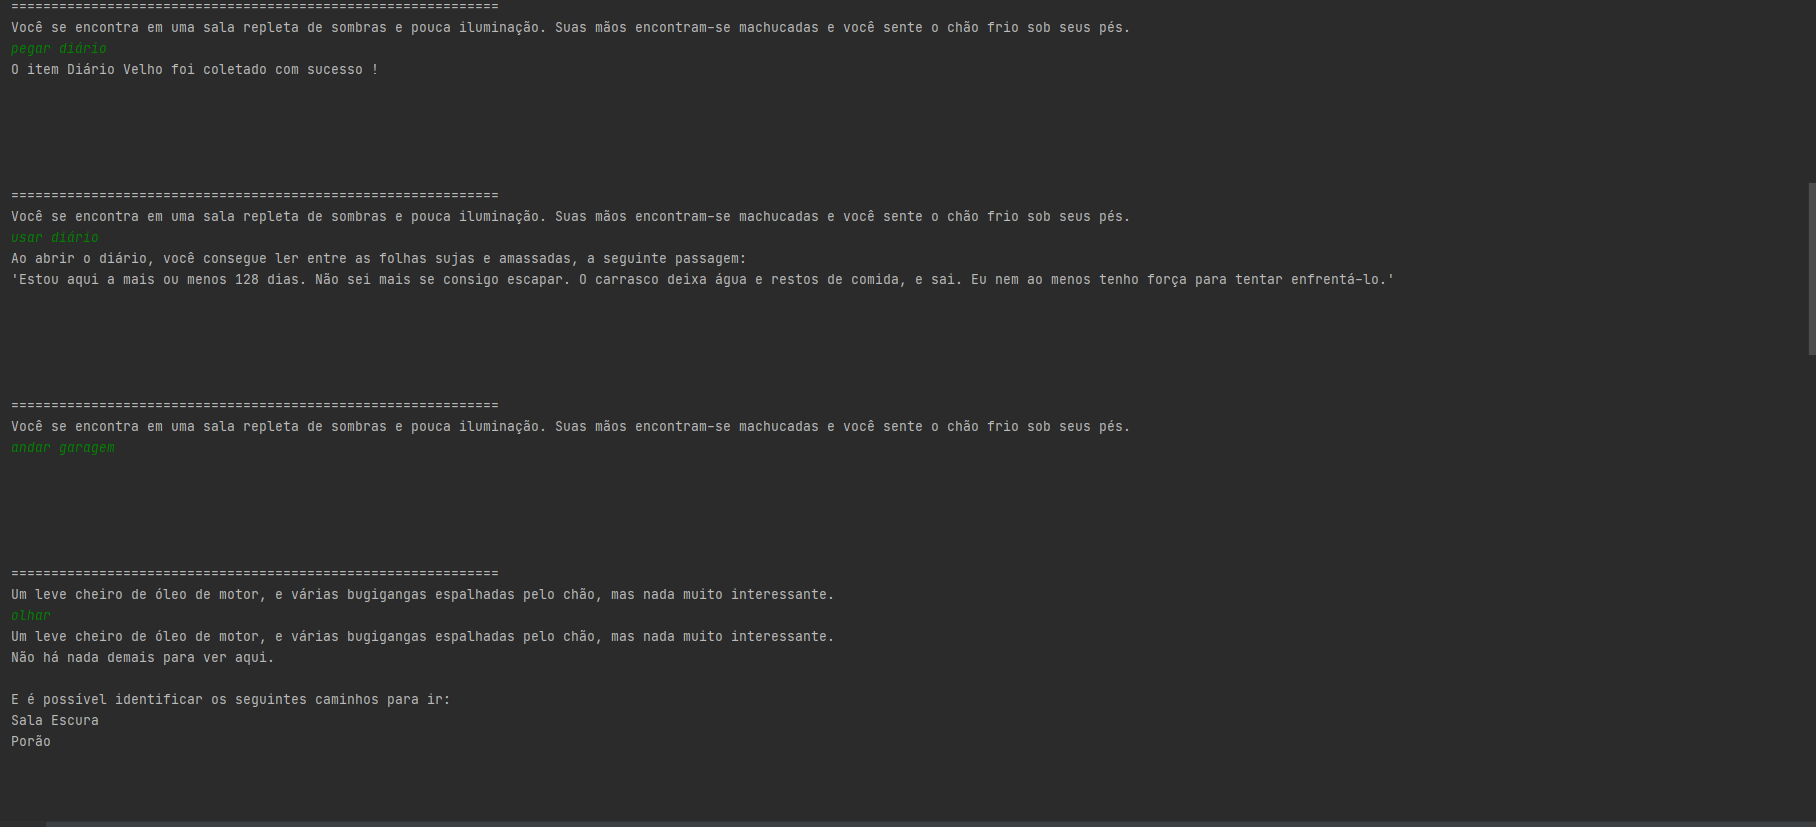
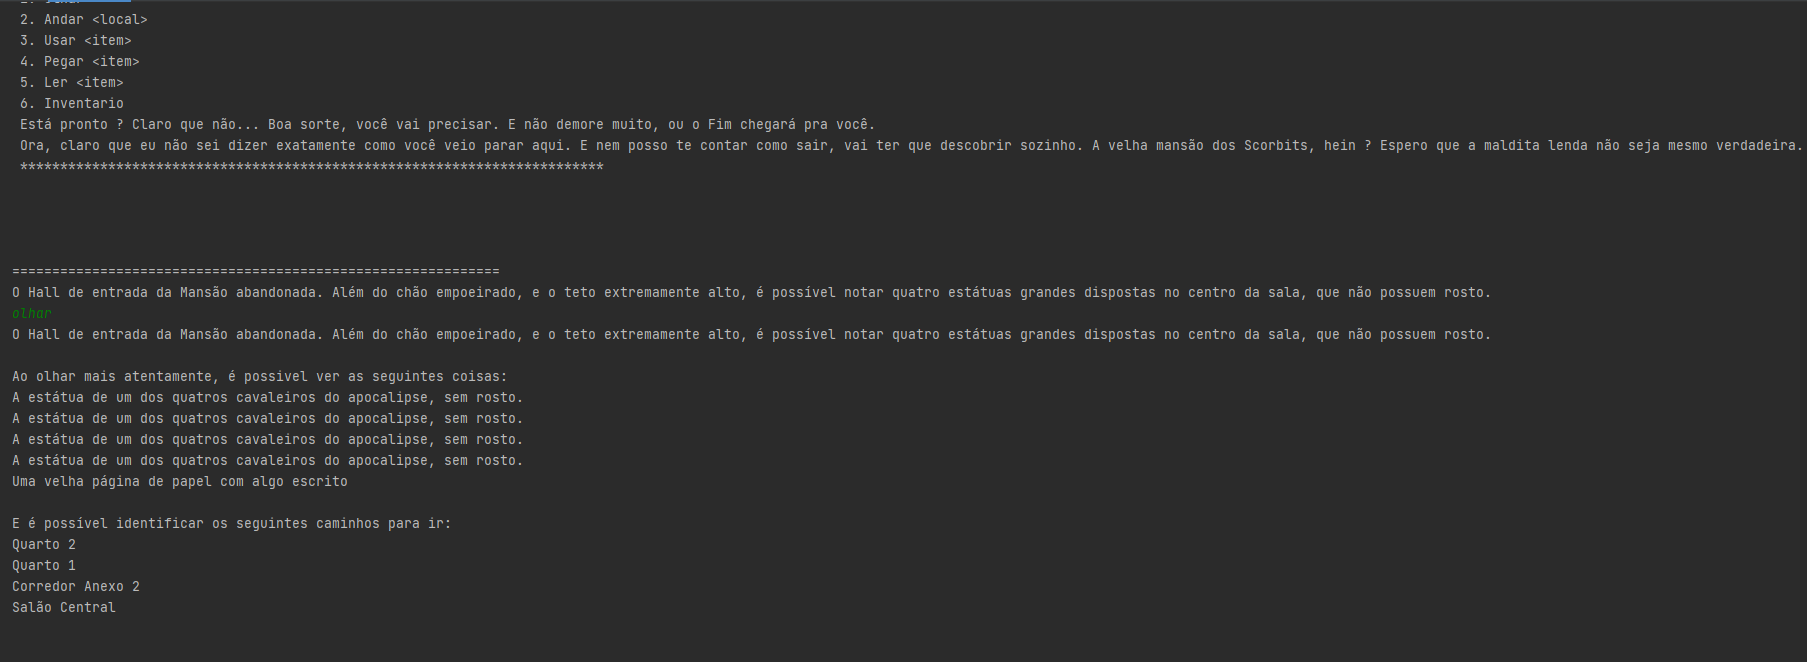
1 - Finalizando jogo.

Changed region(s): [[0.0, 0.423, 0.8367, 0.9366], [0.0, 0.0, 1.0, 0.423]]

diff --git a/TextRPGAdventure/src/game/Principal.java b/TextRPGAdventure/src/game/Principal.java
@@ -3,12 +3,14 @@ package game;
 import engine.*;
 import engine.area.Area;
 import engine.area.AreaIluminada;
-import engine.item.ItemChave;
-import engine.item.ItemChavePorta;
+import engine.item.*;
 import game.models.EstatuaControlador;
 import game.models.item.*;
+import game.servicos.Arquivo;
 
+import java.io.FileNotFoundException;
 import java.util.ArrayList;
+import java.util.Arrays;
 import java.util.List;
 
 public class Principal {
@@ -19,11 +21,13 @@ public class Principal {
         System.out.println(" Escapar de um lugar sombrio enquanto um inimigo terrível te persegue.\n Essa é sua tarefa. \n Algumas instruções antes de começar.");
         System.out.println(" Os seguintes comandos estão disponíveis pra você: ");
         System.out.println(" 1. Olhar ");
-        System.out.println(" 2. Andar ");
-        System.out.println(" 3. Usar ");
-        System.out.println(" 4. Pegar ");
-        System.out.println(" 5. Ler ");
+        System.out.println(" 2. Andar <local>");
+        System.out.println(" 3. Usar <item>");
+        System.out.println(" 4. Pegar <item>");
+        System.out.println(" 5. Ler <item>");
         System.out.println(" 6. Inventario ");
+        System.out.println(" Está pronto ? Claro que não... Boa sorte, você vai precisar. E não demore muito, ou o Fim chegará pra você. ");
+        System.out.println(" Ora, claro que eu não sei dizer exatamente como você veio parar aqui. E nem posso te contar como sair, vai ter que descobrir sozinho. A velha mansão dos Scorbits, hein ? Espero que a maldita lenda não seja mesmo verdadeira.");
         System.out.println(" ************************************************************************* ");
 
         JogoController jogo = JogoController.getJogo();
@@ -55,37 +59,52 @@ public class Principal {
 
         Lanterna lanterna = new Lanterna("Lanterna", "Uma lanterna velha. Parece que ainda funciona.", false, true, false, 10);
 
+        ItemDecorativo cadaverSala4 = new ItemDecorativo("Cadáver Homem", "Um cadáver completamente estraçalhado. Há marcas de garras por todo o corpo, e o rosto está completamente desfigurado.", false, false);
+        ItemDecorativo cadaver2Sala4 = new ItemDecorativo("Cadáver Feminino", "Um cadáver completamente estraçalhado. Há marcas de garras por todo o corpo, e o está completamente rosto desfigurado. Um dos braços foi arrancado.", false, false);
+        ItemDecorativo cadaverSala8 = new ItemDecorativo("Cadáver", "Um cadáver completamente submerso no sangue, com excessão de sua mão pendendo na parede lateral da banheira. Pobre coitado...", false, false);
+        ItemDecorativo cadaverSala9 = new ItemDecorativo("Cadáver Cachorro", "Os restos do cachorro da família podem ser encontrados em cima do sofá.", false, false);
+        ItemDecorativo cadaverSala16 = new ItemDecorativo("Cadáver Criança", "Um cadáver infantil repousa sobre o berço. Se você não visse o sangue, daria pra achar que está dormindo...", false, false);
+        ItemDecorativo cadaverSala23 = new ItemDecorativo("Cadáver", "Um cadáver desmembrado espatifado no chão. Quem sabe onde estão os outros membros...", false, false);
+        ItemDecorativo cadaverSala27 = new ItemDecorativo("Cadáver Homem", "Um cadáver esfaqueado até a morte. Foi tão picotado que Jack, o Estripador, estaria orgulhoso...", false, false);
+
+        ItemLegivel diarioSala1 = new ItemLegivel("Página diário 0", "Uma velha página de papel com algo escrito", false, true, Arrays.asList("'As estátuas divinas... A única forma de escaparmos agora. Não sei se terei tempo, mas se encontrar esse bilhete, ache os quatro rostos, e estará livre.'"));
+        ItemLegivel diarioSala2 = new ItemLegivel("Página diário 1", "Uma velha página de papel com algo escrito",false, true, Arrays.asList("'Ah, quem dera Lincoln me desse bola... Já fiz de tudo, mas o maldito não me nota. Terei que apelar para meus dotes sedutores mais poderosos.'"));
+        ItemLegivel diarioSala13 = new ItemLegivel("Página diário 2", "Uma velha página de papel com algo escrito",false, true, Arrays.asList("'Morfeu, onde diabos está minha chave ?? Sabe que é importante para momentos de crise. Espero que não tenha levado pra sessão reservada...'"));
+        ItemLegivel diarioSala15 = new ItemLegivel("Página diário 3", "Uma velha página de papel com algo escrito",false, true, Arrays.asList("'Rose, minha cara... Parece que a maldição da família voltou para nos assombrar. Se achar isso em algum momento, fuja o mais rápido que puder e queime a casa.'"));
+        ItemLegivel diarioSala18 = new ItemLegivel("Página diário 4", "Uma velha página de papel com algo escrito",false, true, Arrays.asList("'A alguns dias esse cheiro horrendo vem saindo do banheiro e eu tenho certeza de ter visto algo no armário... Vamos isolar esse quarto imediatamente, papai está preocupado.'"));
+        ItemLegivel diarioSala29 = new ItemLegivel("Página diário 5", "Uma velha página de papel com algo escrito",false, true, Arrays.asList("'Ele está a solta, eu não acreditei de forma alguma .... Como é possivel ?! Era só uma maldita lenda dessa família !!'"));
+
         Area sala1 = new Area ("Hall de Entrada da Mansão", "O Hall de entrada da Mansão abandonada. Além do chão empoeirado, e o teto extremamente alto, é possível notar quatro estátuas grandes dispostas no centro da sala, que não possuem rosto.");
-        Area sala2 = new Area ("Quarto 2", "Descrição Sala 2");
-        Area sala3 = new Area ("Quarto 1", "Descrição Sala 3");
-        AreaIluminada sala4 = new AreaIluminada ("Sala Visita", "Descrição Sala 4", false, "A sala está muita escura para enxergar alguma coisa. Alguma fonte de luz poderia ajudar...");
-        Area sala5 = new Area ("Close 1", "Descrição Sala 5");
-        Area sala6 = new Area ("Banheiro 1", "Descrição Sala 6");
-        Area sala7 = new Area ("Fundos da Biblioteca", "Descrição Sala 7");
-        AreaIluminada sala8 = new AreaIluminada ("Banheiro 2", "Descrição Sala 8", false, "A sala está muita escura para enxergar alguma coisa. Alguma fonte de luz poderia ajudar...");
-        Area sala9 = new Area ("Salão Central", "Descrição Sala 9");
-        Area sala10 = new Area ("Banheiro 7", "Descrição Sala 10");
-        Area sala11 = new Area ("Corredor 1", "Descrição Sala 11");
-        AreaIluminada sala12 = new AreaIluminada ("Biblioteca - Área Principal", "Descrição Sala 12", false, "A sala está muita escura para enxergar alguma coisa. Alguma fonte de luz poderia ajudar...");
-        Area sala13 = new Area ("Biblioteca - Área de Leitura", "Descrição Sala 13");
-        Area sala14 = new Area ("Banheiro 5", "Descrição Sala 14");
-        Area sala15 = new Area ("Biblioteca - Sessão Reservada", "Descrição Sala 15");
-        Area sala16 = new Area ("Quarto 4", "Descrição Sala 16");
-        AreaIluminada sala17 = new AreaIluminada ("Banheiro 4", "Descrição Sala 17", false, "A sala está muita escura para enxergar alguma coisa. Alguma fonte de luz poderia ajudar...");
-        Area sala18 = new Area ("Quarto 5", "Descrição Sala 18");
-        Area sala19 = new Area ("Quarto 3", "Descrição Sala 19");
-        Area sala20 = new Area ("Banheiro 3", "Descrição Sala 20");
-        Area sala21 = new Area ("Corredor Anexo 2", "Descrição Sala 21");
-        Area sala22 = new Area ("Sala de Jantar", "Descrição Sala 22");
-        Area sala23 = new Area ("Área de Serviço", "Descrição Sala 23");
-        Area sala24 = new Area ("Cozinha", "Descrição Sala 24");
-        Area sala25 = new Area ("Banheiro 6", "Descrição Sala 25");
-        Area sala26 = new Area ("Despensa 2", "Descrição Sala 26");
-        AreaIluminada sala27 = new AreaIluminada ("Dispensa 1", "Descrição Sala 27", false, "A sala está muita escura para identificar qualquer coisa aqui.");
-        Area sala28 = new Area ("Corredor 3", "Descrição Sala 28");
-        AreaIluminada sala29 = new AreaIluminada ("Sótão", "Descrição Sala 29", false, "A sala está muita escura para enxergar alguma coisa. Alguma fonte de luz poderia ajudar...");
-        AreaIluminada sala30 = new AreaIluminada ("Bunker", "Descrição Sala 30", false, "A sala está muita escura para enxergar alguma coisa. Alguma fonte de luz poderia ajudar...");
-        AreaIluminada sala31 = new AreaIluminada ("Jardim dos Fundos", "Descrição Sala 31", false, "A sala está muita escura para enxergar alguma coisa. Alguma fonte de luz poderia ajudar...");
+        Area sala2 = new Area ("Quarto 2", "Um quarto abandonado, com roupas de camas poíadas e cheias de poeira. Há pedaços de vidro quebrado próximas ao criado-mudo, e bastante roupas espalhadas pelo chão. Alguém saiu daqui com bastante pressa.");
+        Area sala3 = new Area ("Quarto 1", "Um quarto extremamente arrumado, com roupas de camas de cor rosa bem limpas e conservadas. Aparentemente, alguém esteve arrumando esse quarto recentemente. Entretanto, há pegadas de lama no chão em direção a porta de onde você veio.");
+        AreaIluminada sala4 = new AreaIluminada ("Sala Visita", "A Sala de Visitas, um local de comunhão e amizades. Entretanto, esse lugar está bastante decrépito. Há sangue espalhados nas paredes e no chão.", false, "A sala está muita escura para enxergar alguma coisa. Alguma fonte de luz poderia ajudar...");
+        Area sala5 = new Area ("Closet 1", "Um closet cheio de roupas em bom estado. Não parece ter sujeira por aqui.");
+        Area sala6 = new Area ("Banheiro 1", "Um banheiro impecável de limpo, e com cheiro de desinfetante no ar.");
+        Area sala7 = new Area ("Fundos da Biblioteca", "Parte dos fundos da biblioteca, abarrotada de livros empilhados e estantes mal organizadas.");
+        AreaIluminada sala8 = new AreaIluminada ("Banheiro 2", "Um banheiro completamente imundo, com uma banheira inundada de sangue.", false, "A sala está muita escura para enxergar alguma coisa. Alguma fonte de luz poderia ajudar...");
+        Area sala9 = new Area ("Salão Central", "O imenso salão central, símbolo da mansão nas diversas fotos da família. No momento, os móveis estão completamente destruídos e há lama e sangue espalhados por toda parte.");
+        Area sala10 = new Area ("Banheiro 7", "O grande banheiro do centro da casa. Não há nada demais aqui, além de um pouco de lama.");
+        Area sala11 = new Area ("Corredor 1", "Um longo corredor com portas para vários lados. Pegadas de lama e sangue entram e saem de vários desses lugares.");
+        AreaIluminada sala12 = new AreaIluminada ("Biblioteca - Área Principal", "A grande biblioteca, onde estão estantes e mais estantes com livros, a perder de vista. Que lugar extraordinário. E surpreendentemente arrumado.", false, "A sala está muita escura para enxergar alguma coisa. Alguma fonte de luz poderia ajudar...");
+        Area sala13 = new Area ("Biblioteca - Área de Leitura", "Mesas longas de madeira e diversas cadeiras, a área de concentração máxima. Há alguns óculos e relógios velhos repousando sobre as mesas, e bastante poeira. Ainda assim, está bem melhor que o resto da casa.");
+        Area sala14 = new Area ("Banheiro 5", "Um banheiro limpo e conservado.");
+        Area sala15 = new Area ("Biblioteca - Sessão Reservada", "Uma sessão secreta, trancada e protegida ? Que discreto. Nem devem existir segredos guardados aqui, não é mesmo ? ");
+        Area sala16 = new Area ("Quarto 4", "Um quarto com decoração bastante infantil. Um berço quebrado, brinquedos esmagados e sangue. Que crueldade...");
+        AreaIluminada sala17 = new AreaIluminada ("Banheiro 4", "Um banheiro cheio de lama, até as paredes, e pedaços de porcelana quebrada no chão. Alguém comeu algo que não fez bem...", false, "A sala está muita escura para enxergar alguma coisa. Alguma fonte de luz poderia ajudar...");
+        Area sala18 = new Area ("Quarto 5", "Um quarto cheio de lama, e com um cheiro horroroso. Os lençóis estão completamente sujos.");
+        Area sala19 = new Area ("Quarto 3", "Um quarto infantil, sem manchas de sangue ou lama. Até o corredor para ele parecia limpo... Talvez esteja vazio a algum tempo.");
+        Area sala20 = new Area ("Banheiro 3", "Um banheiro bem infatil e colorido, bastante limpo e cheiroso.");
+        Area sala21 = new Area ("Corredor Anexo 2", "Este corredor trancado está cheio de fumaça.. É díficil até de enxergar o que tem do outro lado. E parece estar tão quente...");
+        Area sala22 = new Area ("Sala de Jantar", "A imensa sala de jantar da família, agora transformada em um lugar completamente carbonizado. As paredes estão pretas, e há corpos queimados sobre a mesa e sobre as cadeiras. Um churrasco da maldade...");
+        Area sala23 = new Area ("Área de Serviço", "A área de serviço, completamente suja de sangue e lama.");
+        Area sala24 = new Area ("Cozinha", "A grande cozinha da mansão, também carbonizada. Há até resquícios de fogo entre os armários de madeira. Este lugar não vai aguentar muito tempo.");
+        Area sala25 = new Area ("Banheiro 6", "Um banheiro cheio de fumaça e lama.");
+        Area sala26 = new Area ("Despensa 2", "Uma despensa completamente revirada, com comida derramada sobre o chão, restos pisoteados e sangue. Muito sangue.");
+        AreaIluminada sala27 = new AreaIluminada ("Dispensa 1", "Uma despensa completamente revirada, com comida derramada sobre o chão, restos pisoteados e sangue.", false, "A sala está muita escura para identificar qualquer coisa aqui.");
+        Area sala28 = new Area ("Corredor 3", "Um longo corredor com portas para vários lados. Pegadas de lama e sangue entram e saem de vários desses lugares.");
+        AreaIluminada sala29 = new AreaIluminada ("Sótão", "O Sótão, depósito superior. É difícil andar aqui com tanto sangue nos pés.", false, "A sala está muita escura para enxergar alguma coisa. Alguma fonte de luz poderia ajudar...");
+        AreaIluminada sala30 = new AreaIluminada ("Bunker", "O Bunker secreto, para proteger a família dos desastres. Talvez não tenha adiantado.", false, "A sala está muita escura para enxergar alguma coisa. Alguma fonte de luz poderia ajudar...");
+        AreaIluminada sala31 = new AreaIluminada ("Jardim dos Fundos", "Um belo jardim intocado. Mesmo na noite fria, é o lugar mais bonito que alguém poderia vislumbrar. Quem profanaria tamanha beleza ?", false, "A sala está muita escura para enxergar alguma coisa. Alguma fonte de luz poderia ajudar...");
 
         jogo.addArea(sala1);
         jogo.addArea(sala2);
@@ -130,15 +149,13 @@ public class Principal {
         sala1.addItem(estatuaMorte);
         sala1.addItem(estatuaPeste);
 
-        sala1.addItem(mascaraFome);
-        sala1.addItem(mascaraMorte);
-        sala1.addItem(mascaraGuerra);
-        sala1.addItem(mascaraPeste);
+        sala1.addItem(diarioSala1);
 
         /* SALA 2*/
         jogo.conectarArea(sala2, sala1, false);
         jogo.conectarArea(sala2, sala5, false);
         jogo.conectarArea(sala2, sala8, false);
+        sala2.addItem(diarioSala2);
 
         /* SALA 3*/
         jogo.conectarArea(sala3, sala1, false);
@@ -149,6 +166,8 @@ public class Principal {
         jogo.conectarArea(sala4, sala9, false);
         jogo.conectarArea(sala4, sala11, false);
         sala4.addItem(mascaraPeste);
+        sala4.addItem(cadaverSala4);
+        sala4.addItem(cadaver2Sala4);
 
         /* SALA 5*/
         jogo.conectarArea(sala5, sala2, false);
@@ -157,17 +176,18 @@ public class Principal {
         jogo.conectarArea(sala6, sala3, false);
         sala6.addItem(chaveCaixaMascaraMorte);
 
-
         /* SALA 7*/
         jogo.conectarArea(sala7, sala13, false);
 
         /* SALA 8*/
         jogo.conectarArea(sala8, sala2, false);
+        sala8.addItem(cadaverSala8);
 
         /* SALA 9*/
         jogo.conectarArea(sala9, sala1, false);
         jogo.conectarArea(sala9, sala10, false);
         jogo.conectarArea(sala9, sala4, false);
+        sala9.addItem(cadaverSala9);
 
         /* SALA 10*/
         jogo.conectarArea(sala10, sala9, false);
@@ -191,6 +211,7 @@ public class Principal {
         /* SALA 13*/
         jogo.conectarArea(sala13, sala12, false);
         jogo.conectarArea(sala13, sala7, false);
+        sala13.addItem(diarioSala13);
 
         /* SALA 14*/
         jogo.conectarArea(sala14, sala12, false);
@@ -198,15 +219,18 @@ public class Principal {
         /* SALA 15*/
         jogo.conectarArea(sala15, sala12, false);
         sala15.addItem(mascaraPeste);
+        sala15.addItem(diarioSala15);
 
         /* SALA 16*/
         jogo.conectarArea(sala16, sala11, false);
+        sala16.addItem(cadaverSala16);
 
         /* SALA 17*/
         jogo.conectarArea(sala17, sala18, false);
 
         /* SALA 18*/
         jogo.conectarArea(sala18, sala17, false);
+        sala18.addItem(diarioSala18);
 
         /* SALA 19*/
         jogo.conectarArea(sala19, sala11, false);
@@ -228,6 +252,7 @@ public class Principal {
 
         /* SALA 23*/
         jogo.conectarArea(sala23, sala24, false);
+        sala23.addItem(cadaverSala23);
 
         /* SALA 24*/
         jogo.conectarArea(sala24, sala23, false);
@@ -245,7 +270,7 @@ public class Principal {
         /* SALA 27*/
         jogo.conectarArea(sala27, sala24, false);
         sala27.addItem(mascaraFome);
-
+        sala27.addItem(cadaverSala27);
 
         /* SALA 28*/
         jogo.conectarArea(sala28, sala29, false);
@@ -254,6 +279,7 @@ public class Principal {
 
         /* SALA 29*/
         jogo.conectarArea(sala29, sala28, false);
+        sala29.addItem(diarioSala29);
 
         /* SALA 30*/
         jogo.conectarArea(sala30, sala28, false);

diff --git a/TextRPGAdventure/src/engine/JogoController.java b/TextRPGAdventure/src/engine/JogoController.java
@@ -9,6 +9,7 @@ import engine.item.Item;
 import engine.item.ItemChavePorta;
 import engine.personagem.Chefe;
 import engine.personagem.Jogador;
+import engine.services.Acao;
 import engine.services.InterpreteJogador;
 import engine.navegacao.Navegacao;
 import engine.services.SugestaoEscrita;
@@ -111,6 +112,17 @@ public final class JogoController {
         return jogo;
     }
 
+    public void exibirAcoesPossiveis(){
+        System.out.println(" ************************************************************************* ");
+        System.out.println(" Os seguintes comandos estão disponíveis pra você: ");
+        for(Acao acao: Acao.values()){
+            System.out.println(acao);
+        }
+        System.out.println("Lembre-se: Dependendo do comando, você precisa digitar uma parte do nome do local ou do item ao que se refere.");
+        System.out.println(" ************************************************************************* ");
+
+    }
+
     public void executarControlador(){
         for(Controlador controlador : controladores){
             if(controlador.isHabilitado())
@@ -164,7 +176,7 @@ public final class JogoController {
                     areaAtual.getItens().remove(itemColetado);
                     return itemColetado;
                 } else {
-                    System.out.println("Este não é um item coletável. Tente usá-lo mesmo assim !");
+                    System.out.println("Este não é um item coletável.!");
                 }
 
             }

diff --git a/TextRPGAdventure/src/engine/services/Acao.java b/TextRPGAdventure/src/engine/services/Acao.java
@@ -9,6 +9,7 @@ public enum Acao {
     USAR(new String[]{"usar", "utilizar"}, TipoAcao.USAR),
     LER(new String[]{"ler", "folhear"}, TipoAcao.LER),
     INVENTARIO(new String[]{"inventario", "itens", "obtidos"}, TipoAcao.INVENTARIO),
+    COMANDOS(new String[]{"comandos", "tutorial", "ações", "opções"}, TipoAcao.COMANDOS),
     NADA(new String[]{" "}, TipoAcao.NADA);
 
     private String[] aliases;

diff --git a/TextRPGAdventure/src/engine/services/InterpreteJogador.java b/TextRPGAdventure/src/engine/services/InterpreteJogador.java
@@ -161,6 +161,9 @@ public class InterpreteJogador {
            case INVENTARIO:
                JogoController.getJogo().exibirInventario();
                break;
+           case COMANDOS:
+               JogoController.getJogo().exibirAcoesPossiveis();
+               break;
            default:
                System.out.println("Esta não é uma ação válida !");
                break;

diff --git a/TextRPGAdventure/src/engine/services/TipoAcao.java b/TextRPGAdventure/src/engine/services/TipoAcao.java
@@ -8,6 +8,7 @@ public enum TipoAcao {
         USAR,
         LER,
         INVENTARIO,
+        COMANDOS,
         NADA;
 
 }
